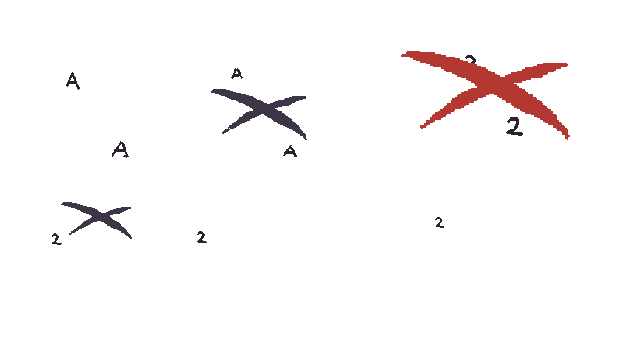
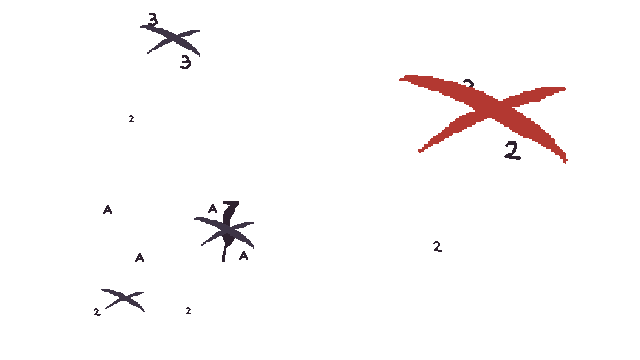
Fixed spamming input on dialogue ballon would execute mutation twice

diff --git a/obs_summer-guide/TODO.md b/obs_summer-guide/TODO.md
@@ -24,7 +24,7 @@
 - [ ] Queen of diamonds
 	- [ ] mapping battlefield, planning next move. Unlocks standard issue card weapons for the player
 - [ ] Jack of diamonds
-	- [ ] Offers player weapon upgrades. More durability, more equip slots. Takes card Tatters as currency
+	- [ ] Offers player weapon upgrades. More durability, more equip slots, more actions, more draw_amt, increaesed max hp, max crits. Takes card Tatters as currency
 	- [ ] Gamble minigame, three cups
 - [ ] "Forever" save_file for tracking if player has done tutorial.
 - [ ] enemy spawn pool in globals